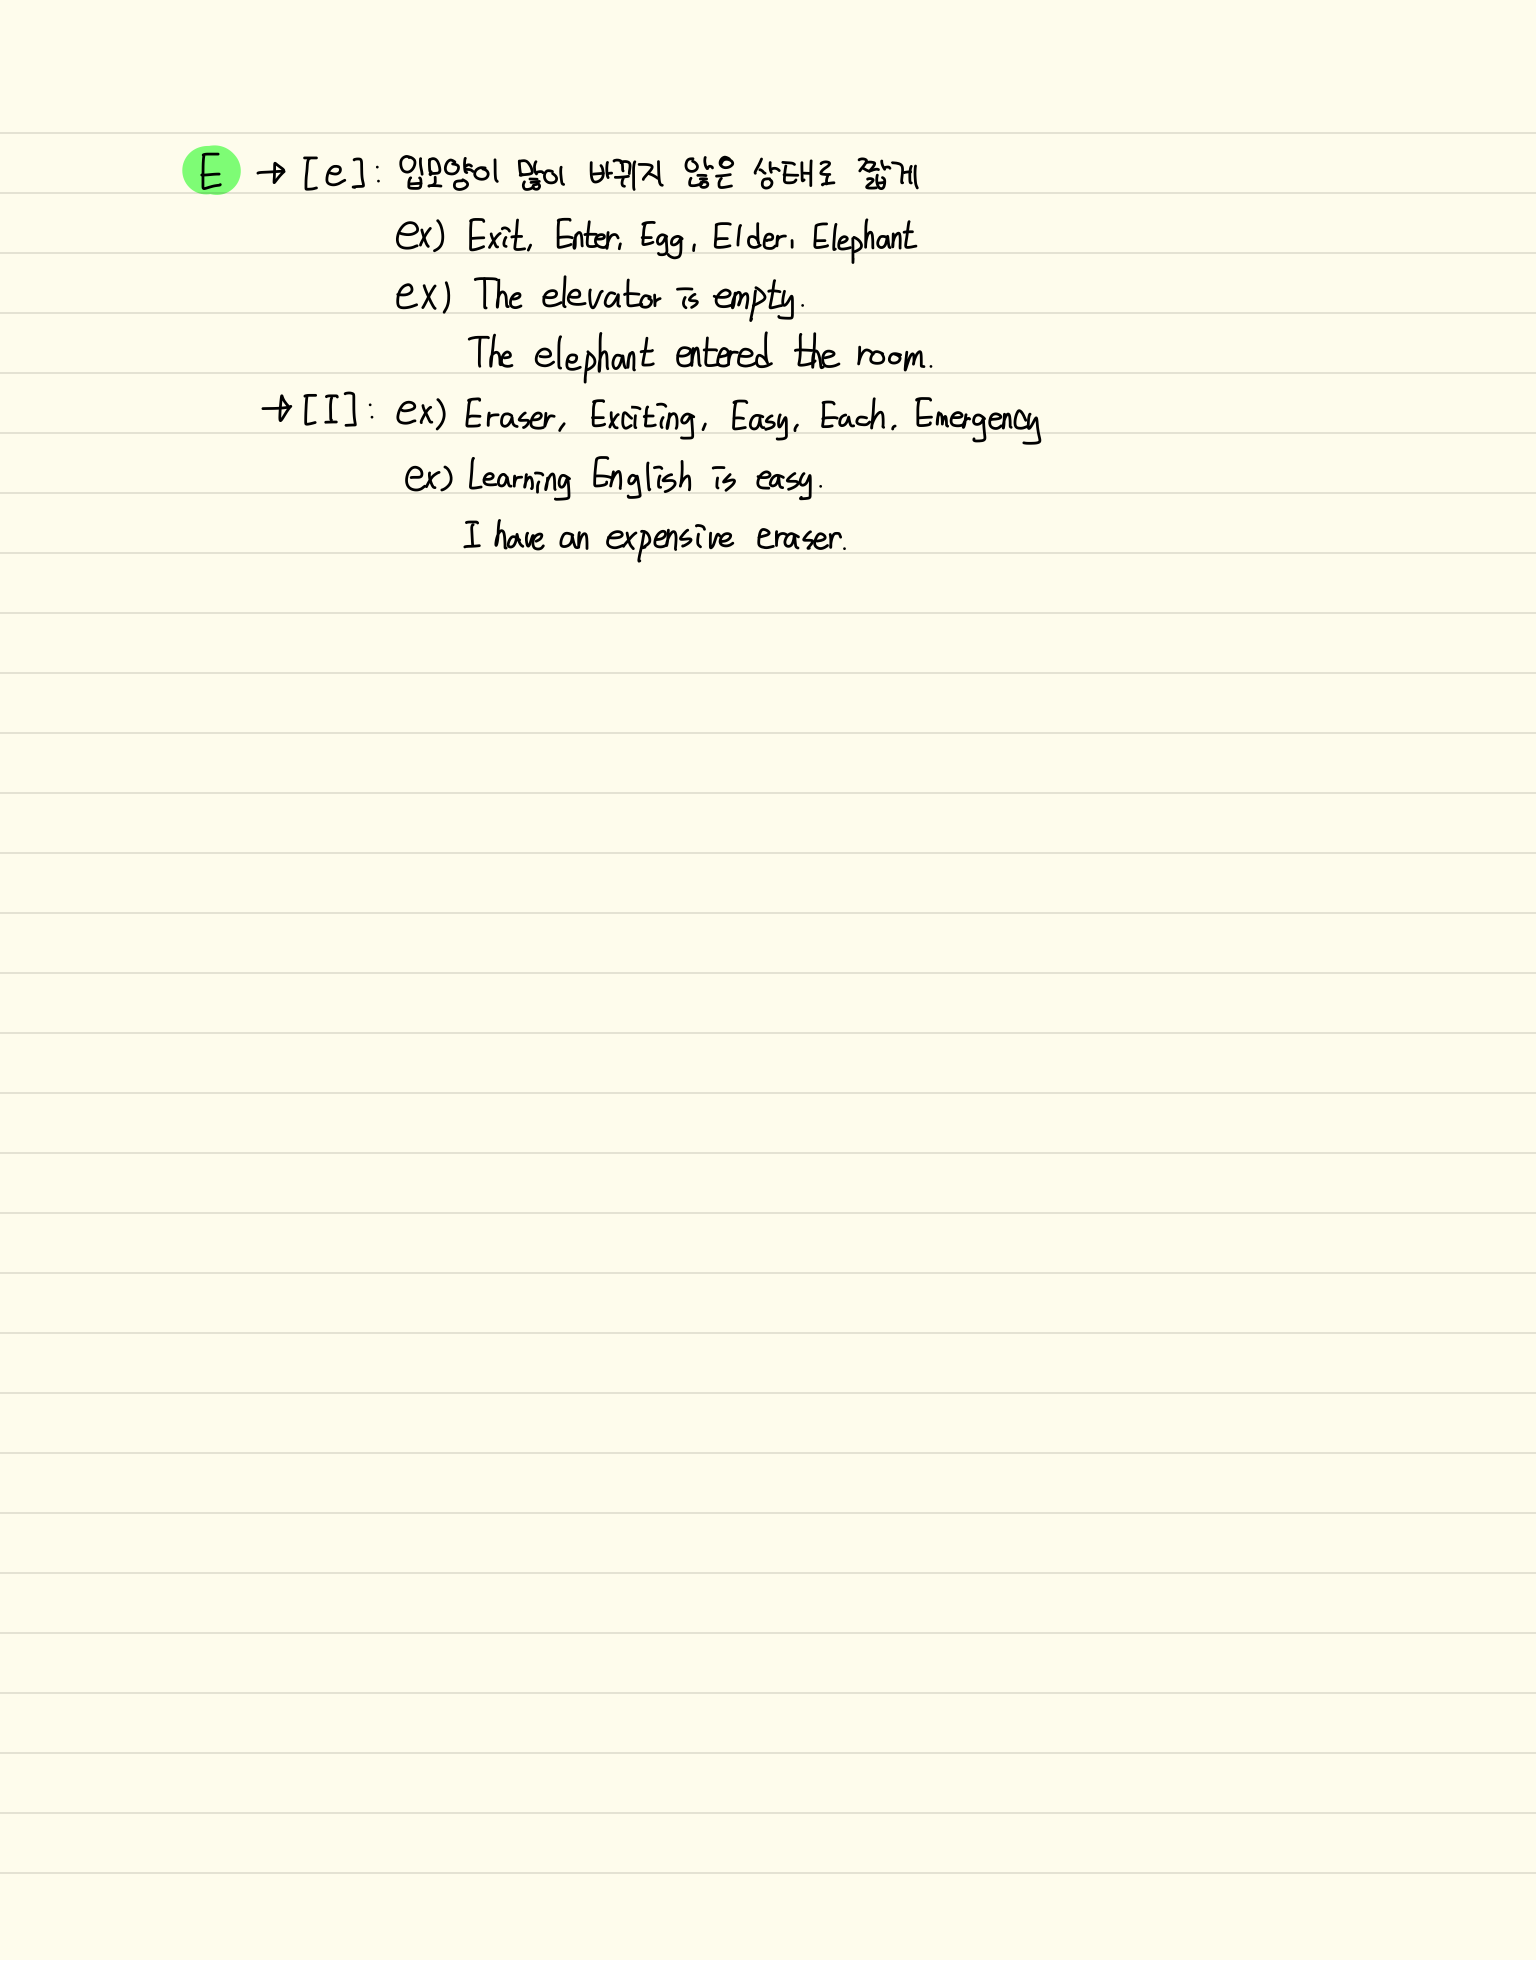
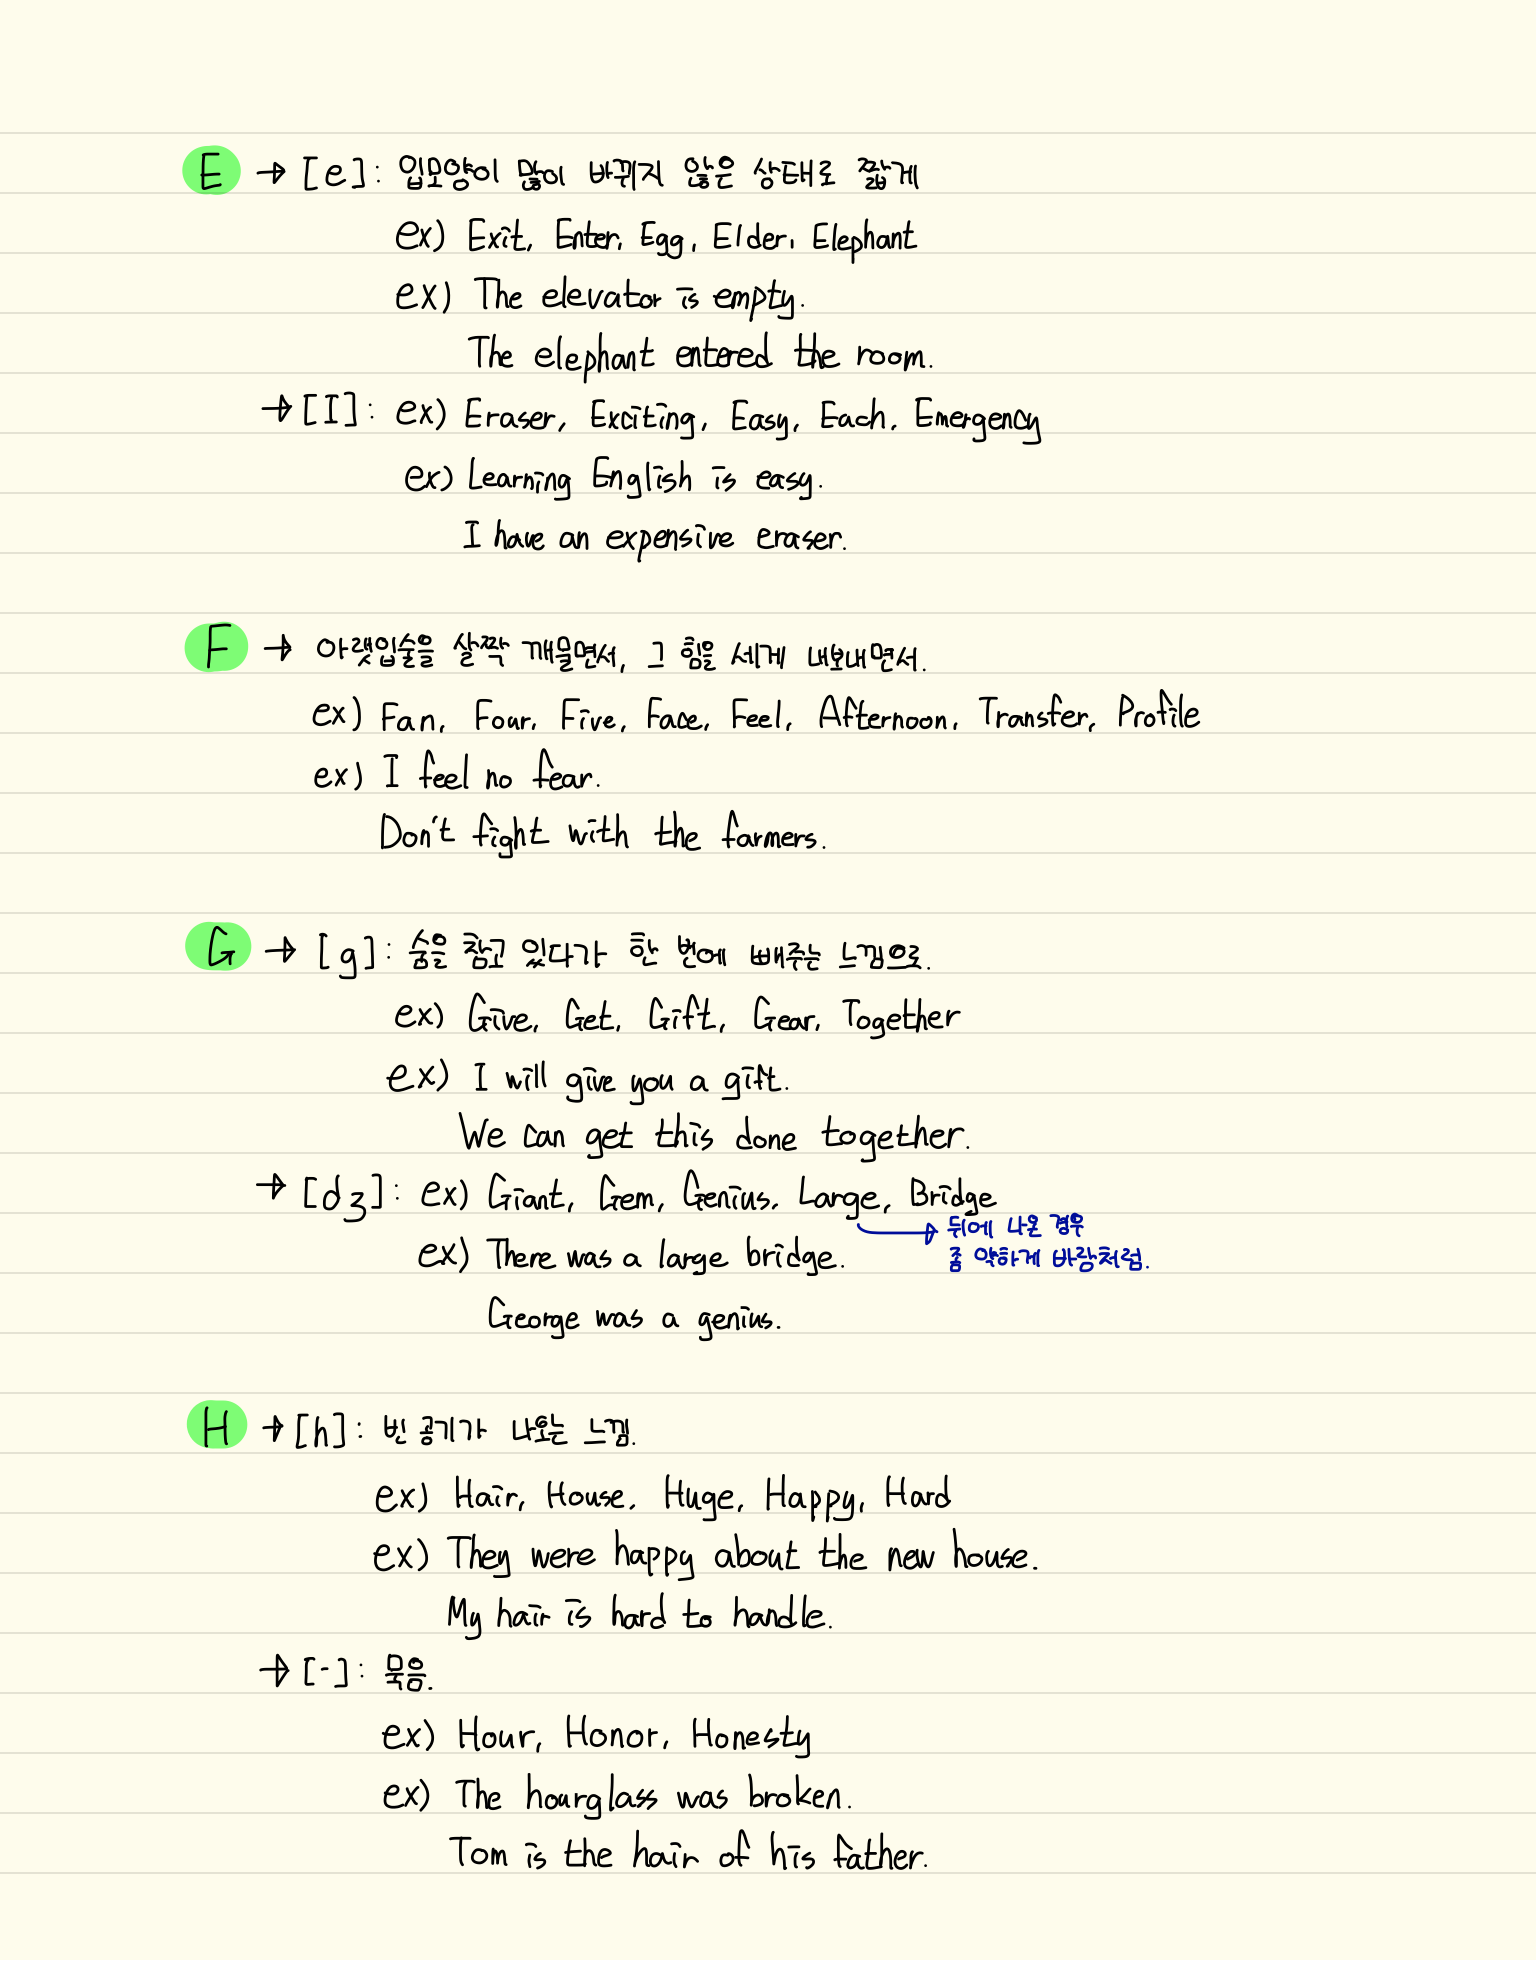
[TOEIC] Pronunciation F~J

diff --git a/TOEIC/TS-Pronunciation.md b/TOEIC/TS-Pronunciation.md
@@ -3,3 +3,5 @@
 ![](TS-Pronunciation_1.png)
 
 ![](TS-Pronunciation_2.png)
+
+![](TS-Pronunciation_3.png)
